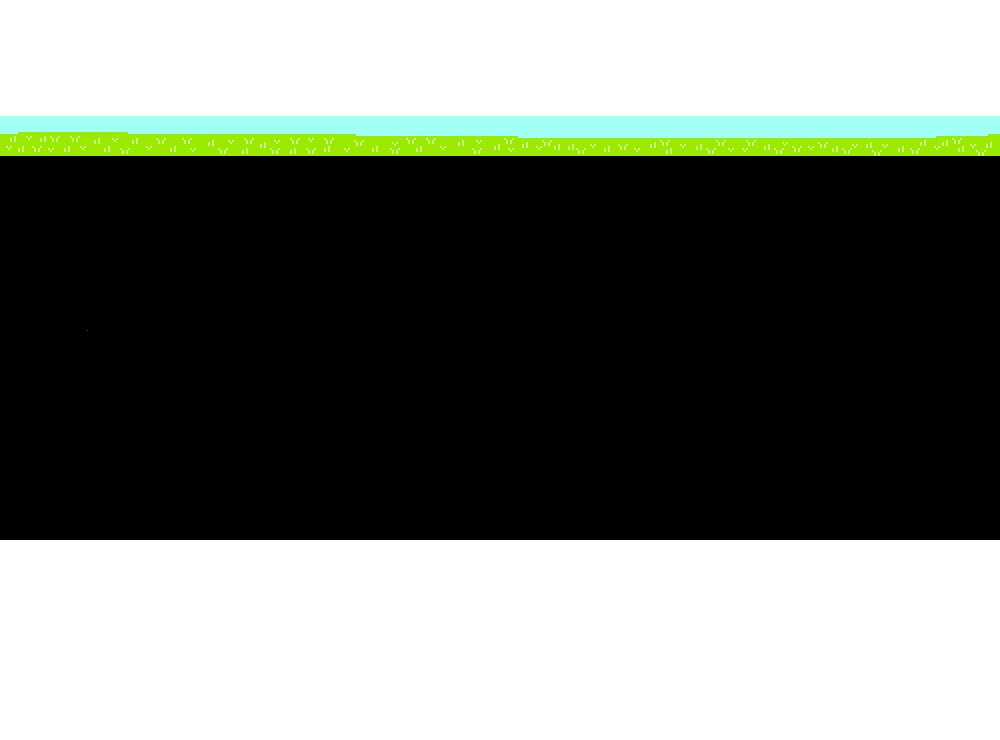
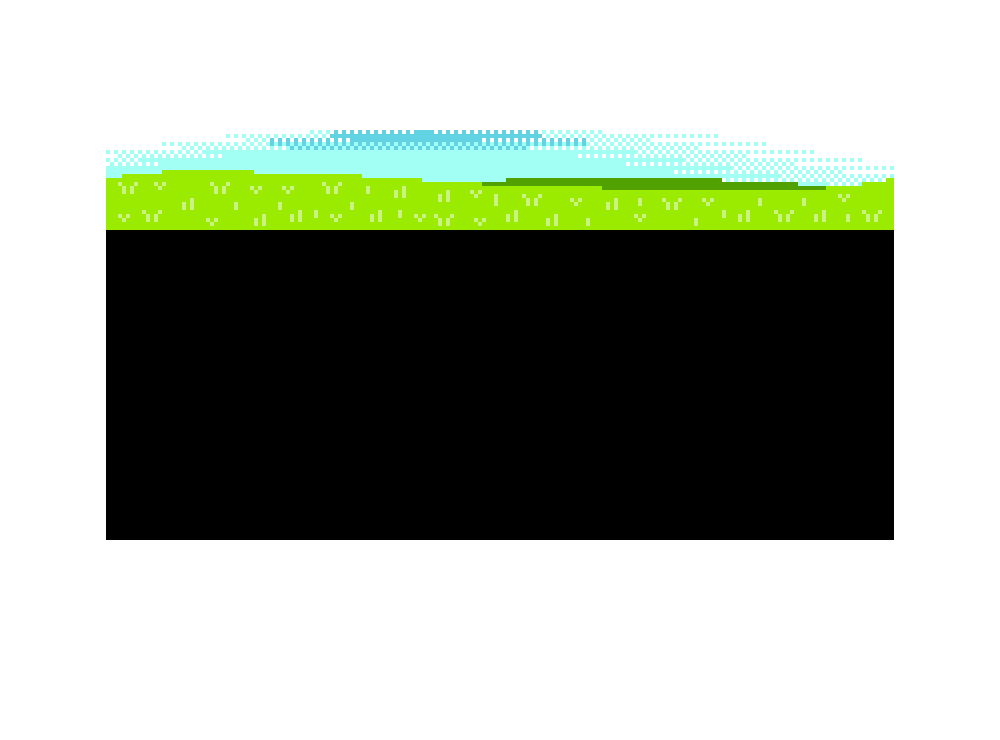
Refactor battle graphics

Changed region(s): [[0.0, 0.1554, 1.0, 0.7459]]

diff --git a/public/js/plugins/EnemyPositioner.js b/public/js/plugins/EnemyPositioner.js
@@ -1,0 +1,109 @@
+/*:
+ * @target MZ
+ * @plugindesc Positions up to 8 enemies in a 2-column x 4-row formation.
+ * @author ChatGPT
+ *
+ * @help
+ * ============================================================================
+ * Enemy Formation
+ * ============================================================================
+ *
+ * Enemies are automatically positioned like this:
+ *
+ * Enemy 1   Enemy 5
+ * Enemy 2   Enemy 6
+ * Enemy 3   Enemy 7
+ * Enemy 4   Enemy 8
+ *
+ * Enemy IDs can still be added through the troop Note box:
+ *
+ * <Extra Enemies>
+ * 5
+ * 5
+ * 12
+ * 18
+ * </Extra Enemies>
+ *
+ * The normal enemies in the troop plus the Extra Enemies are
+ * automatically arranged into the formation.
+ *
+ * Maximum: 8 enemies.
+ *
+ * ============================================================================
+ */
+
+(() => {
+  //=========================================================================
+  // CONFIGURATION
+  //=========================================================================
+
+  // Left-most enemy column
+  const ENEMY_START_X = 182;
+
+  // Distance between the two enemy columns
+  const X_SPACING = 70;
+
+  // Match the actor Y positions exactly
+  const Y_POSITIONS = [205, 275, 345, 415];
+
+  //=========================================================================
+  // TROOP SETUP
+  //=========================================================================
+
+  const _Game_Troop_setup = Game_Troop.prototype.setup;
+
+  Game_Troop.prototype.setup = function (troopId) {
+    _Game_Troop_setup.call(this, troopId);
+
+    const troop = $dataTroops[troopId];
+
+    if (!troop) return;
+
+    const note = troop.note || "";
+
+    const match = note.match(/<Extra Enemies>([\s\S]*?)<\/Extra Enemies>/i);
+
+    if (match) {
+      const lines = match[1]
+        .split(/\r?\n/)
+        .map((s) => s.trim())
+        .filter(Boolean);
+
+      for (const line of lines) {
+        const enemyId = Number(line);
+
+        if (!enemyId) continue;
+
+        // Don't exceed the normal RPG Maker MZ limit of 8
+        if (this._enemies.length >= 8) break;
+
+        this._enemies.push(new Game_Enemy(enemyId, 0, 0));
+      }
+    }
+
+    arrangeFormation(this._enemies);
+
+    this.makeUniqueNames();
+  };
+
+  //=========================================================================
+  // ENEMY FORMATION
+  //=========================================================================
+
+  function arrangeFormation(enemies) {
+    for (let i = 0; i < enemies.length && i < 8; i++) {
+      // First 4 enemies go down the first column.
+      // Next 4 enemies go down the second column.
+
+      const column = Math.floor(i / 4);
+      const row = i % 4;
+
+      const x = ENEMY_START_X + column * X_SPACING;
+
+      const y = Y_POSITIONS[row];
+
+      enemies[i]._screenX = x;
+      enemies[i]._screenY = y;
+    }
+  }
+})();

diff --git a/src/react-components/ui/CenterPanelComponent.jsx b/src/react-components/ui/CenterPanelComponent.jsx
@@ -4,12 +4,29 @@ import styles from "./CenterPanelComponent.module.css";
 import SpritesheetDisplayComponent from "@components/login/SpritesheetDisplayComponent";
 import PartyWindowComponent from "@components/party/PartyWindowComponent";
 import PartyInvitesWindowComponent from "@components/party/PartyInvitesWindowComponent";
+import EncounterWindowComponent from "@components/encounter/EncounterWindowComponent";
 
 export default function CenterPanel() {
   const centerPanel = useSelector(
     (state) => state.CenterPanelSlice.centerPanel,
   );
+
   const isVisible = !!centerPanel;
+
+  const transparencyClass = (() => {
+    switch (centerPanel) {
+      case "EncounterWindowComponent":
+        return styles.transparent;
+
+      case "PartyWindowComponent":
+      case "PartyInvitesWindowComponent":
+        return styles.translucent;
+
+      default:
+        return ""; // default opaque background
+    }
+  })();
+
   const renderCenterPanel = () => {
     switch (centerPanel) {
       case "SpritesheetDisplayComponent":
@@ -18,12 +35,14 @@ export default function CenterPanel() {
         return <PartyWindowComponent />;
       case "PartyInvitesWindowComponent":
         return <PartyInvitesWindowComponent />;
+      case "EncounterWindowComponent":
+        return <EncounterWindowComponent />;
     }
   };
 
   return (
     <div
-      className={styles.centerPanel}
+      className={`${styles.centerPanel} ${transparencyClass}`}
       style={{ visibility: isVisible ? "visible" : "hidden" }}
     >
       {renderCenterPanel()}

diff --git a/public/js/plugins/EngineOverrides.js b/public/js/plugins/EngineOverrides.js
@@ -309,14 +309,21 @@ Sprite_Actor.prototype.setActorHome = function (index) {
   if (!actor) return;
 
   const positions = {
-    1: { x: 750, y: 200 },
-    2: { x: 750, y: 270 },
-    3: { x: 750, y: 340 },
-    4: { x: 750, y: 410 },
+    1: { x: 610, y: 205 },
+    2: { x: 610, y: 275 },
+    3: { x: 610, y: 345 },
+    4: { x: 610, y: 415 },
   };
 
   const pos = positions[actor.actorId()];
   if (pos) {
     this.setHome(pos.x, pos.y);
+  }
+};
+
+// Remove actor battler shadows
+Sprite_Actor.prototype.updateShadow = function () {
+  if (this._shadowSprite) {
+    this._shadowSprite.visible = false;
   }
 };

diff --git a/public/js/plugins.js b/public/js/plugins.js
@@ -6,6 +6,7 @@ var $plugins =
 {"name":"ClientEncounterManager","status":true,"description":"","parameters":{}},
 {"name":"ClientPlayerManager","status":true,"description":"","parameters":{}},
 {"name":"ClientSpriteManager","status":true,"description":"","parameters":{}},
+{"name":"EnemyPositioner","status":true,"description":"Adds unlimited extra enemies to troops using troop note tags.","parameters":{}},
 {"name":"EngineOverrides","status":true,"description":"","parameters":{}},
 {"name":"ClientMain","status":true,"description":"","parameters":{}}
 ];

diff --git a/public/js/plugins/ClientEncounterManager.js b/public/js/plugins/ClientEncounterManager.js
@@ -24,6 +24,10 @@ class ClientEncounterManager {
       type: "BottomPanelSlice/setBottomPanel",
       payload: "EncounterActionComponent",
     });
+    window.clientAPI.dispatchToReact({
+      type: "CenterPanelSlice/setCenterPanel",
+      payload: "EncounterWindowComponent",
+    });
   }
 }
 

diff --git a/src/react-components/ui/CenterPanelComponent.module.css b/src/react-components/ui/CenterPanelComponent.module.css
@@ -12,5 +12,12 @@
   padding: 1dvw;
   z-index: 10;
   flex: 7;
-  opacity: 90%;
+}
+
+.transparent {
+  background-color: rgba(0, 0, 0, 0); /* fully transparent */
+}
+
+.translucent {
+  background-color: rgba(0, 0, 0, 0.9); /* semi-transparent */
 }

diff --git a/src/react-components/encounter/EncounterWindowComponent.jsx b/src/react-components/encounter/EncounterWindowComponent.jsx
@@ -1,0 +1,5 @@
+import styles from "./EncounterWindowComponent.module.css";
+
+export default function EncounterWindowComponent() {
+  return <div className={styles.encounterWindowComponentStyle}></div>;
+}

diff --git a/src/react-components/encounter/EncounterWindowComponent.module.css b/src/react-components/encounter/EncounterWindowComponent.module.css
@@ -1,0 +1,3 @@
+.encounterWindowComponentStyle {
+  background-color: transparent;
+}
